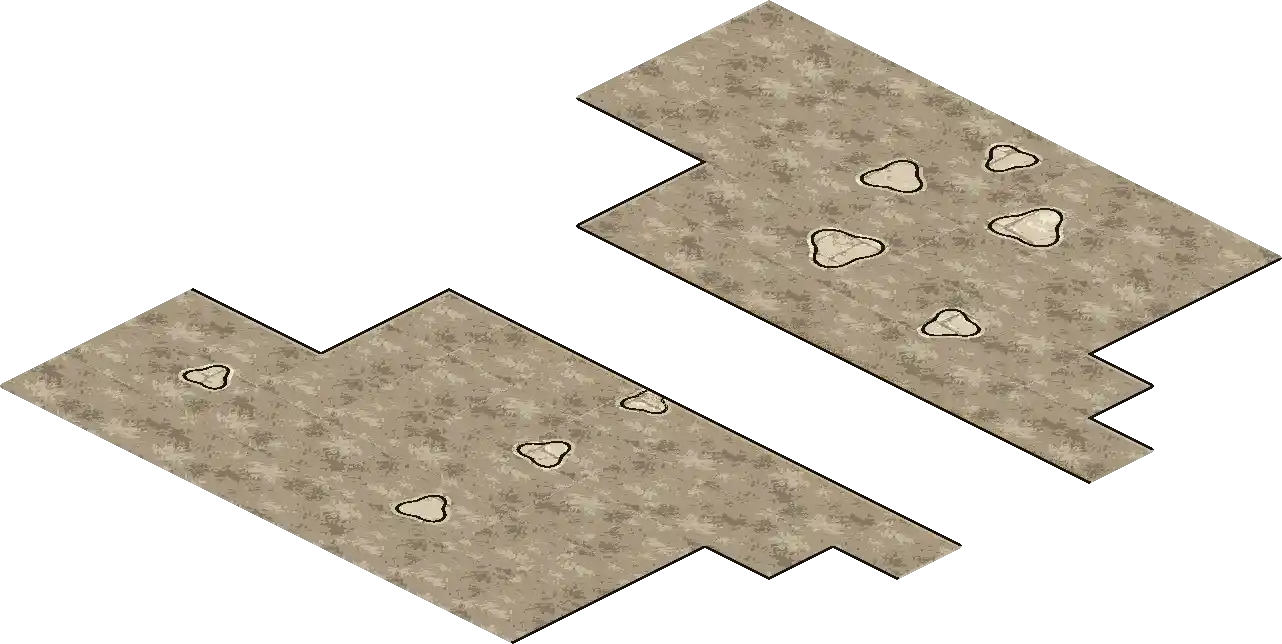
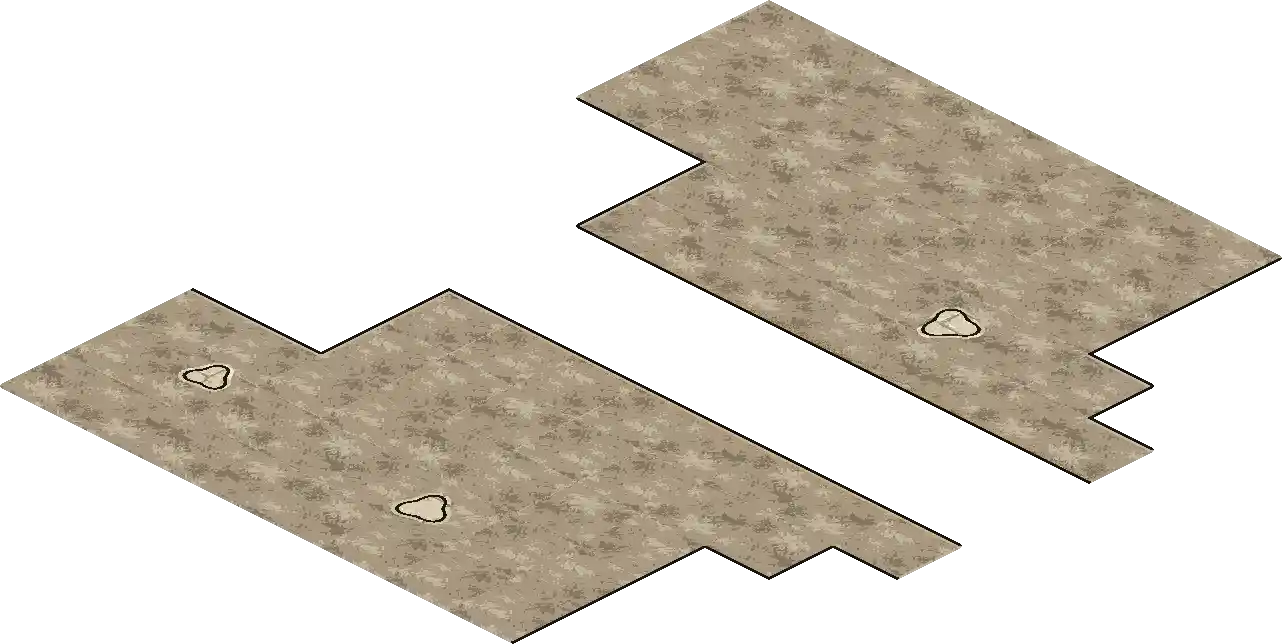
Keep the quarry gate's spoil heaps whole
The gate packer drew a heap wherever its nearest anchor fell, so a heap
near the road was cut by the lane's ink line into a sliver, and others
were clipped by a ledge or ran under a wall base or a cover cell. Move
The Cutting's fit rule into quarry-village-material.ts as heapFits and
apply it to both packers: a heap is painted only if every cell it can
reach is plain spoil. The Cutting and the Driller stay byte-identical.
The gate's earth-west, earth-east and road pages move by -4,778 bytes in
total, recorded in the registration doc. A new test samples every heap
on both boards and fails if any shows only part of its body.

diff --git a/scripts/art/quarry-route-ground.ts b/scripts/art/quarry-route-ground.ts
@@ -38,7 +38,7 @@ import type { Image } from './lib/image';
 import { tileNoise } from '../../src/render/painters/shapes';
 import { alphaBounds, crop } from './lib/trim';
 import { encodeWebp } from './lib/webp';
-import { loadQuarryMaterial, nearestHeap, QUARRY_GROUND_QUALITY } from './quarry-village-material';
+import { heapFits, loadQuarryMaterial, QUARRY_GROUND_QUALITY } from './quarry-village-material';
 import type { QuarryMaterial, QuarryTone } from './quarry-village-material';
 
 /** One logical tile is 64x32 scene pixels; see `forest-route-ground.ts`. */
@@ -114,22 +114,16 @@ const plain = (key: string | undefined): boolean =>
 const clamp = (value: number): number => Math.max(0, Math.min(1, value));
 
 /**
- * Whether the heap nearest a point lies wholly on plain spoil. The Cutting's
- * shoulders are narrow strips between the lane and the ledges, and a heap
- * anchored near either edge would be cut by it: into a sliver hugging a ledge
- * line, or into ink specks scattered through the lane's feathered fringe. A
- * heap that does not fit is left out whole rather than clipped.
+ * Plain spoil, the only ground a heap may lie on. The Cutting's shoulders are
+ * narrow strips between the lane and the ledges, so a heap anchored near either
+ * edge is dropped whole by `heapFits` rather than cut into a sliver.
  */
-function heapFits(map: MapDef, x: number, y: number): boolean {
-  const heap = nearestHeap(x, y);
-  if (!heap) return false;
-  for (let cy = Math.floor(heap.hy - heap.reach); cy <= Math.floor(heap.hy + heap.reach); cy++)
-    for (let cx = Math.floor(heap.hx - heap.reach); cx <= Math.floor(heap.hx + heap.reach); cx++) {
-      const key = map.rows[cy]?.[cx];
-      if (materialOf(key) !== 'spoil' || !plain(key)) return false;
-    }
-  return true;
-}
+const plainSpoil =
+  (map: MapDef) =>
+  (x: number, y: number): boolean => {
+    const key = map.rows[y]?.[x];
+    return materialOf(key) === 'spoil' && plain(key);
+  };
 
 const regionOf = (x: number, key: string | undefined): QuarryRegionName | null => {
   const terrain = kind(key);
@@ -144,6 +138,7 @@ export function packQuarryGround(
   const images = new Map(
     QUARRY_REGION_NAMES.map((name) => [name, newImage(QUARRY_PAGE.width, QUARRY_PAGE.height)]),
   );
+  const carries = plainSpoil(map);
   for (let py = 0; py < QUARRY_PAGE.height; py++)
     for (let px = 0; px < QUARRY_PAGE.width; px++) {
       const wx = QUARRY_PAGE.x + px + 0.5,
@@ -210,7 +205,7 @@ export function packQuarryGround(
         else if (heap === 'inside') tone = 'spoil';
         else if (heap === 'rim') tone = 'wear';
         else tone = material.trackMark(gx, gy) ?? tone;
-      } else if (tone === 'spoil' && own === 'spoil' && plain(key) && heapFits(map, gx, gy)) {
+      } else if (tone === 'spoil' && own === 'spoil' && plain(key) && heapFits(gx, gy, carries)) {
         // Spoil shoulders: inked heaps of freshly cut stone, exactly as the
         // gate paints its terrace, so neither dirt page is a bare swatch.
         const heap = material.heapMark(gx, gy);

diff --git a/scripts/art/quarry-route-ground.test.ts b/scripts/art/quarry-route-ground.test.ts
@@ -1,6 +1,6 @@
 import { readFileSync, statSync } from 'node:fs';
 import { expect, it } from 'vitest';
-import { AMBUSH_ROAD, QUARRY_FLOOR } from '../../src/content/maps/combat';
+import { AMBUSH_ROAD, QUARRY_FLOOR, QUARRY_GATE } from '../../src/content/maps/combat';
 import {
   CUTTING_GROUND_REGIONS,
   DRILLER_GROUND_REGIONS,
@@ -10,7 +10,12 @@ import type { Image } from './lib/image';
 import { pixelAt, toHex } from './lib/image';
 import { encodeWebp } from './lib/webp';
 import { FOREST_INK } from './forest-village-material';
-import { QUARRY_GROUND_QUALITY, QUARRY_GROUND_TONES } from './quarry-village-material';
+import {
+  HEAP_INK,
+  QUARRY_GROUND_QUALITY,
+  QUARRY_GROUND_TONES,
+  nearestHeap,
+} from './quarry-village-material';
 import { QUARRY_PAGE, buildQuarryGround } from './quarry-route-ground';
 import { buildGateGround } from './quarry-modular-ground';
 import { luma, measure, readPlate } from './forest-ground-measure';
@@ -278,4 +283,42 @@ it.each([
       statSync(`public/art/maps/${root}/${region.name}.webp`).size,
       `${root}/${region.name}.webp`,
     ).toBe(region.bytes);
+});
+
+/**
+ * A spoil heap is drawn whole or not at all. Sampled over the whole board: every
+ * heap whose body shows anywhere must show its body everywhere, so none is cut
+ * by a lane edge, a ledge, a wall base or a cover cell into a sliver (the fit
+ * rule both packers share, `heapFits`).
+ */
+it.each([
+  ['cutting', () => cutting, AMBUSH_ROAD, ['dirt-west', 'dirt-east'], 3],
+  ['gate', () => gate, QUARRY_GATE, ['earth-west', 'earth-east'], 5],
+] as const)('draws every %s spoil heap whole', (_scene, built, map, pages, atLeast) => {
+  const body = new Set<string>(Object.values(QUARRY_GROUND_TONES.limestone));
+  const heaps = new Map<string, { hits: number; all: number }>();
+  const step = 0.02;
+  for (let gy = step / 2; gy < map.height; gy += step)
+    for (let gx = step / 2; gx < map.width; gx += step) {
+      const heap = nearestHeap(gx, gy);
+      // Well inside the body, clear of the ink line and of pixel rounding.
+      if (!heap || heap.distance > -HEAP_INK - 0.02) continue;
+      const key = `${heap.hx.toFixed(4)},${heap.hy.toFixed(4)}`;
+      const tally = heaps.get(key) ?? { hits: 0, all: 0 };
+      tally.all++;
+      const { image, x: originX, y: originY } = plate(built(), pages[gx < 10 ? 0 : 1]);
+      const rgba = pixelAt(
+        image,
+        Math.floor(768 + (gx - gy) * 64 - originX),
+        Math.floor((gx + gy) * 32 - originY),
+      );
+      if ((rgba[3] ?? 0) === 255 && body.has(toHex([rgba[0], rgba[1], rgba[2]]))) tally.hits++;
+      heaps.set(key, tally);
+    }
+  let whole = 0;
+  for (const [key, { hits, all }] of heaps) {
+    expect(hits === 0 || hits === all, `heap at ${key}: ${hits} of ${all} body samples`).toBe(true);
+    if (hits === all) whole++;
+  }
+  expect(whole).toBeGreaterThanOrEqual(atLeast);
 });

diff --git a/scripts/art/quarry-modular-ground.ts b/scripts/art/quarry-modular-ground.ts
@@ -17,7 +17,9 @@
  * - `road` region → §3 packed earth, with the haul tracks running down its two
  *   rows in the cart-rut tone.
  * - `earth-west` / `earth-east` → §3 quarry spoil, the loose ground either side
- *   of the road, carrying scattered inked heaps of freshly cut stone.
+ *   of the road, carrying scattered inked heaps of freshly cut stone. A heap is
+ *   painted only if it fits wholly on open terrace, the rule The Cutting uses
+ *   (`heapFits`), so none is cut by the road's edge or a ledge into a sliver.
  *
  * Region routing, page origin and cell keys are untouched, so the registered
  * geometry is unchanged and only the bytes move.
@@ -29,7 +31,7 @@ import type { Image } from './lib/image';
 import { tileNoise } from '../../src/render/painters/shapes';
 import { alphaBounds, crop } from './lib/trim';
 import { encodeWebp } from './lib/webp';
-import { loadQuarryMaterial, QUARRY_GROUND_QUALITY } from './quarry-village-material';
+import { heapFits, loadQuarryMaterial, QUARRY_GROUND_QUALITY } from './quarry-village-material';
 import type { QuarryMaterial, QuarryTone } from './quarry-village-material';
 
 const TILE_DIAGONAL = Math.hypot(64, 32);
@@ -62,6 +64,17 @@ const materialOf = (key: string | undefined): QuarryTone | null => {
 const plain = (key: string | undefined): boolean => key === '.' || key === ',' || key === '=';
 
 const clamp = (value: number): number => Math.max(0, Math.min(1, value));
+
+/**
+ * Open terrace, the only ground a heap may lie on: the Cutting's fit rule in
+ * the gate's reading of its rows. A heap reaching the road, the limestone, a
+ * wall base or a cover cell is dropped whole by `heapFits`, never cut by that
+ * boundary into a sliver.
+ */
+const plainSpoil = (x: number, y: number): boolean => {
+  const key = QUARRY_GATE.rows[y]?.[x];
+  return materialOf(key) === 'spoil' && plain(key);
+};
 
 export function packGateGround(material: QuarryMaterial): Map<GateRegionName, Image> {
   const images = new Map(
@@ -116,9 +129,9 @@ export function packGateGround(material: QuarryMaterial): Map<GateRegionName, Im
       if (tone === 'earth') {
         // The road: haul tracks only. Spoil heaps do not sit in a cart lane.
         tone = material.trackMark(gx, gy) ?? tone;
-      } else if (tone === 'spoil') {
+      } else if (tone === 'spoil' && heapFits(gx, gy, plainSpoil)) {
         // The terrace either side: inked heaps of freshly cut stone, so neither
-        // earth page is a quarter-frame of bare material.
+        // earth page is a quarter-frame of bare material. Only whole heaps.
         const heap = material.heapMark(gx, gy);
         if (heap === 'ink') inked = true;
         else if (heap === 'inside') tone = 'limestone';

diff --git a/scripts/art/quarry-village-material.ts b/scripts/art/quarry-village-material.ts
@@ -151,6 +151,28 @@ export function nearestHeap(x: number, y: number): NearestHeap | null {
   return found;
 }
 
+/**
+ * Whether the heap nearest a point lies wholly on ground that can carry it:
+ * every cell its paint can reach must pass `carries`. A packer passes "plain
+ * spoil" in its own reading of the map. A heap near a lane edge, a ledge, a
+ * wall base or a cover cell would otherwise be cut by that boundary into a
+ * sliver, or into ink specks through a feathered join; one that does not fit
+ * is left out whole rather than clipped. The Cutting and the gate share this
+ * rule so the two cannot drift.
+ */
+export function heapFits(
+  x: number,
+  y: number,
+  carries: (cellX: number, cellY: number) => boolean,
+): boolean {
+  const heap = nearestHeap(x, y);
+  if (!heap) return false;
+  for (let cy = Math.floor(heap.hy - heap.reach); cy <= Math.floor(heap.hy + heap.reach); cy++)
+    for (let cx = Math.floor(heap.hx - heap.reach); cx <= Math.floor(heap.hx + heap.reach); cx++)
+      if (!carries(cx, cy)) return false;
+  return true;
+}
+
 function heapDistance(x: number, y: number): number {
   return nearestHeap(x, y)?.distance ?? Infinity;
 }

diff --git a/docs/art/quarry-gate-registration.md b/docs/art/quarry-gate-registration.md
@@ -141,6 +141,31 @@ under an ignored folder and writes only the reviewed WebPs to
 is renderer-owned and remains a separate pending correction; this change does
 not alter it.
 
+**DL-2 cleanup: whole heaps only (2026-09-23).** The spoil heaps on the terrace
+now obey the fit rule The Cutting has used since W4: a heap is painted only if
+every cell its paint can reach is open terrace (`.`/`,`). The rule lives in
+`scripts/art/quarry-village-material.ts` as `heapFits`, shared by both
+packers. Before, a heap anchored near the road cut across the lane's edge, so
+the road's ink line sliced it into a sliver (the heap at about (2.7, 6.8), left
+of the road in the authored frame), and others were clipped by a ledge or ran
+under a wall base or a cover cell. Those heaps are now left out whole; the
+heaps that fit are unchanged. `quarry-route-ground.test.ts` samples every heap
+on the board and fails if any shows only part of its body. The four registered
+rectangles are unchanged. The Cutting's and the Driller's plates are
+byte-identical.
+
+| Page         | Before (B) | After (B) | Delta (B) |
+| ------------ | ---------: | --------: | --------: |
+| `earth-west` |     35,840 |    33,486 |    −2,354 |
+| `earth-east` |     34,708 |    32,368 |    −2,340 |
+| `road`       |     18,460 |    18,376 |       −84 |
+| `limestone`  |     29,930 |    29,930 |         0 |
+| Total        |    118,938 |   114,160 |    −4,778 |
+
+The road page moves because the old packer also drew heap pixels onto road
+cells where the lane's feathered join swapped a pixel to spoil. Those were ink
+specks in the road, and they are gone too.
+
 Source/packed images have been inspected, but tests and technical registration
 do not establish visual acceptance. Inspect coherent wall runs versus repeated
 block appearance, exposed ends/corners, ground contact and occlusion while actors
